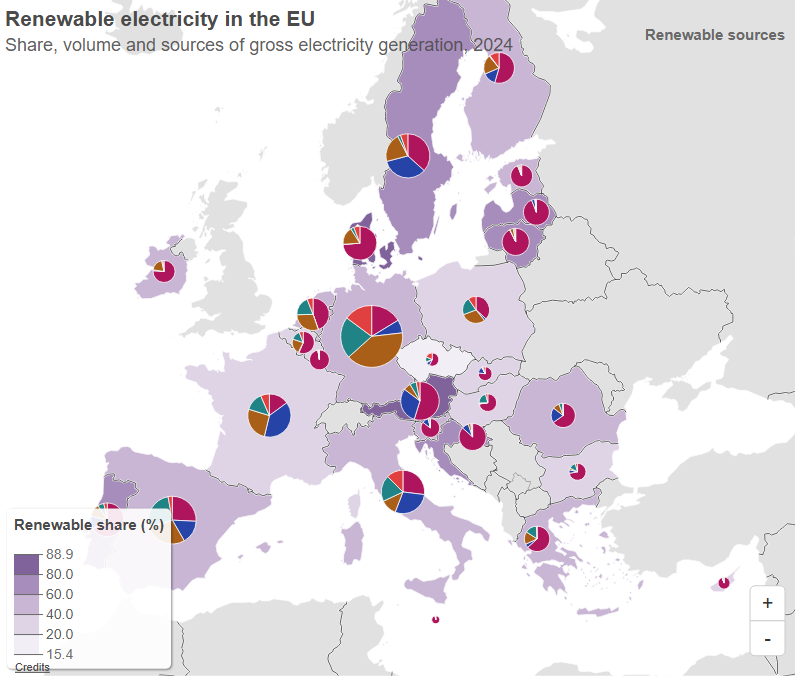
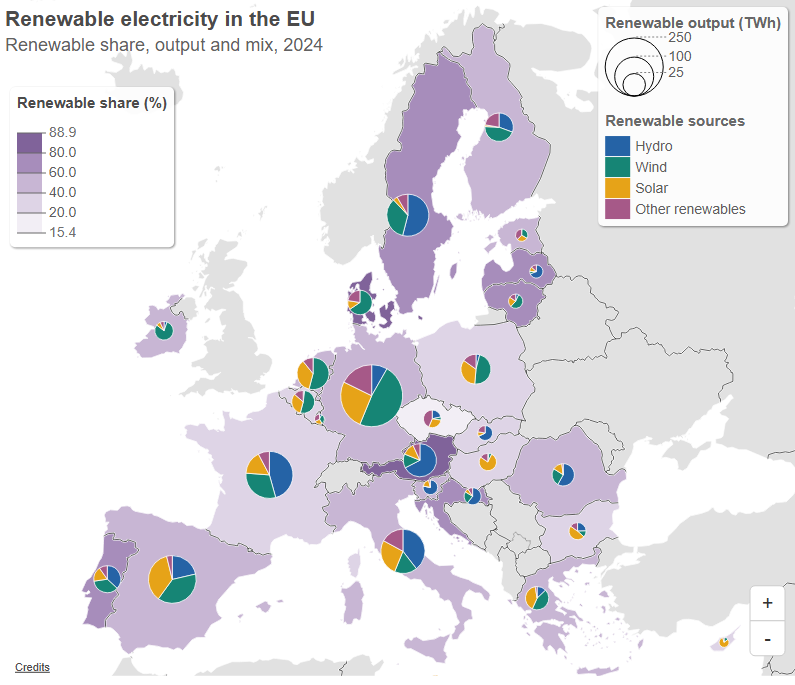
Match renewable electricity pies and legend to source data

diff --git a/examples/multi-layer/renewable-electricity.html b/examples/multi-layer/renewable-electricity.html
@@ -68,9 +68,9 @@
                 .dorling(true)
                 .position({ x: 4500000, y: 3450000, z: 5900 })
                 .title('Renewable electricity in the EU')
-                .subtitle('Share, volume and sources of gross electricity generation, 2024')
+                .subtitle('Renewable share, output and mix, 2024')
                 .stat('share', { customData: renewableShare, unitText: '%' })
-                .stat('mix', {
+                .stat('composition', {
                     customData: renewableMix,
                     unitText: 'TWh',
                     categoryCodes: ['hydro', 'wind', 'solar', 'other'],
@@ -86,13 +86,10 @@
                     },
                     {
                         type: 'pie',
-                        encoding: {
-                            composition: { stat: 'mix' },
-                            color: {
-                                values: { hydro: '#2563a6', wind: '#168575', solar: '#e6a318', other: '#a65988' },
-                                labels: { hydro: 'Hydro', wind: 'Wind', solar: 'Solar', other: 'Other renewables' },
-                            },
-                        },
+                        encoding: { composition: { stat: 'composition' } },
+                        statCodes: ['hydro', 'wind', 'solar', 'other'],
+                        catColors: { hydro: '#2563a6', wind: '#168575', solar: '#e6a318', other: '#a65988' },
+                        catLabels: { hydro: 'Hydro', wind: 'Wind', solar: 'Solar', other: 'Other renewables' },
                         compositionSettings: { minSize: 4, maxSize: 31, strokeFill: '#fff', strokeWidth: 0.8 },
                         legend: {
                             position: 'top right',
